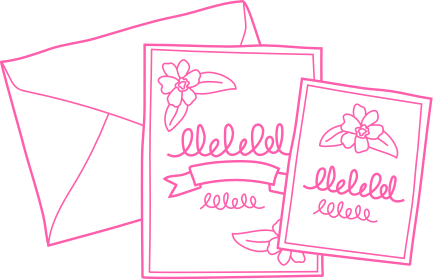
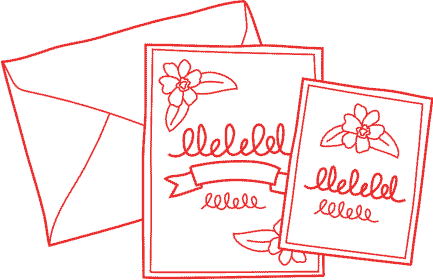
change colors

diff --git a/src/components/WorkGrid.js b/src/components/WorkGrid.js
@@ -24,7 +24,7 @@ class WorkGrid extends Component {
       <Container size='fullWidth' className='WorkGrid'>
         <Container size='maxWidth' className='innerContainer'>
           <h2 className='gridHeadline'>
-            We design custom paper goods for all the things in life worth celebrating!
+            We design custom paper goods for all the things in life worth celebrating.
           </h2>
 
           {/* Invitations */}
@@ -50,7 +50,7 @@ class WorkGrid extends Component {
                   Wedding Stationery
                 </h3>
                 <p>
-                  Your wedding stationery should be as  awesome as you are! That’s why we design  with your wants, needs, hopes, dreams, and budget in mind.
+                  Your wedding stationery should be as  awesome as you are. That’s why we design  with your wants, needs, hopes, dreams, and budget in mind.
                 </p>
                 <p>We’re happy to create invitation suites, printed envelopes, thank you cards, custom maps, signage, table numbers, and anything else your heart desires.
                 </p>

diff --git a/src/components/Navigation.js b/src/components/Navigation.js
@@ -23,7 +23,7 @@ class Navigation extends Component {
                   to='/'
                   className='navLink'
                   activeClassName='active'>
-                  what we do
+                  about
                 </IndexLink>
               </li>
               <li className='navListItem'>
@@ -31,8 +31,16 @@ class Navigation extends Component {
                   to='/how-we-do-it'
                   className='navLink'
                   activeClassName='active'>
-                  how we do it
+                  process
                 </Link>
+              </li>
+              <li className='navListItem'>
+                <a
+                  href='https://www.etsy.com/shop/niknakdsgn'
+                  target='_blank'
+                  className='navLink'>
+                  shop
+                </a>
               </li>
               <li className='navListItem'>
                 <Link

diff --git a/src/styles/_forms.scss b/src/styles/_forms.scss
@@ -14,7 +14,7 @@ form {
     font-size: px-to-rem(14);
     font-family: $fontSans;
     font-weight: 700;
-    color: $colorPrimary;
+    color: $colorSecondary;
     margin: 0 0 $spacePx/2 0;
     line-height: 1;
   }
@@ -25,7 +25,7 @@ form {
     display: block;
     -webkit-appearance: none;
     font-family: $fontSerif;
-    border: 2px solid rgba($colorPrimary, .22);
+    border: 2px solid rgba($colorSecondary, .22);
     transition: all .2s ease-in-out;
     border-radius: $borderRadius;
     font-size: px-to-rem(16);
@@ -35,7 +35,7 @@ form {
 
     &:focus {
       outline: none;
-      border: 2px solid rgba($colorPrimary, .55);
+      border: 2px solid rgba($colorSecondary, .55);
     }
 
     &::-webkit-input-placeholder { /* Chrome/Opera/Safari */

diff --git a/src/components/Navigation.scss b/src/components/Navigation.scss
@@ -30,7 +30,7 @@
 
   .navLogo {
     display: block;
-    fill: $colorBlack;
+    fill: $colorPrimary;
     width: 120px;
   }
 
@@ -52,6 +52,14 @@
 
     &:last-of-type {
       margin: 0;
+    }
+
+    @include respond-to(medium-screen) {
+      margin: 0 $spacePx*1.5 0 0;
+
+      &:last-of-type {
+        margin: 0;
+      }
     }
   }
 
@@ -87,7 +95,7 @@
 
     &.navButton {
       @include respond-to(medium-screen) {
-        @include smallButton($colorSecondary);
+        @include smallButton($colorPrimary);
         border: 3px solid rgba(0,0,0,0);
 
         &.active {
@@ -103,6 +111,6 @@
     position: absolute;
     width: 100%;
     height: 100%;
-    background: $colorSecondary;
+    background: $colorPrimary;
   }
 }

diff --git a/src/components/Footer.scss b/src/components/Footer.scss
@@ -2,7 +2,7 @@
 @import '../styles/variables.scss';
 
 .Footer {
-  background: $colorAccent;
+  background: $colorSecondAccent;
   padding: $spacePx*4 0;
   // magic number, height of footer for sticky footer
   height: 327px;
@@ -44,6 +44,7 @@
   }
 
   .navLink {
+    color: $colorPrimary;
     text-decoration: none;
     font-family: $fontSans;
     font-size: px-to-rem(14);
@@ -52,7 +53,7 @@
   .copyright {
     display: block;
     font-size: px-to-rem(12);
-    opacity: .33;
+    color: $colorSecondary;
     line-height: 1.75;
   }
 }

diff --git a/src/components/ProcessGrid.scss b/src/components/ProcessGrid.scss
@@ -36,7 +36,7 @@
       content: '';
       display: block;
       position: absolute;
-      background: rgba($colorPrimary, .22);
+      background: rgba($colorSecondary, .22);
       height: 2px;
       width: 25%;
       bottom: 0;
@@ -64,7 +64,7 @@
     }
 
     @include respond-to(large-screen) {
-      border-bottom: 2px solid rgba($colorPrimary, .22);
+      border-bottom: 2px solid rgba($colorSecondary, .22);
       padding-bottom: $spacePx*5;
       margin-bottom: $spacePx*5;
 

diff --git a/src/components/HomeHero.scss b/src/components/HomeHero.scss
@@ -3,7 +3,7 @@
 
 .HomeHero {
   background: $colorAccent;
-  color: $colorPrimary;
+  color: $colorBlack;
   position: relative;
 
   &:after {
@@ -17,7 +17,7 @@
     display: block;
     position: absolute;
     height: calc(100% + 80px);
-    opacity: .18;
+    opacity: .15;
     width: 100%;
   }
 
@@ -46,7 +46,7 @@
 
   .headlineLogo {
     bottom: -2px;
-    fill: $colorPrimary;
+    fill: $colorBlack;
     position: relative;
     width: 181px;
 

diff --git a/src/routes/ErrorPage.js b/src/routes/ErrorPage.js
@@ -3,10 +3,8 @@ import React, {Component} from 'react';
 // Components
 import Container from '../components/Container';
 import Footer from '../components/Footer';
-import FooterCta from '../components/FooterCta';
 import BlankHero from '../components/BlankHero';
-import WorkGrid from '../components/WorkGrid';
-import {Link} from 'react-router';
+ import {Link} from 'react-router';
 
 // Styles
 import './ErrorPage.scss';

diff --git a/src/components/ContactForm.scss b/src/components/ContactForm.scss
@@ -15,13 +15,13 @@
 
     &.formFailure {
       .contactHeadline {
-        color: $colorError;
+        color: $colorBlack;
       }
     }
 
     &.formSuccess {
       .contactHeadline {
-        color: $colorSecondary;
+        color: $colorBlack;
       }
     }
 
@@ -54,7 +54,7 @@
   }
 
   .submitButton {
-    @include button($colorSecondary);
+    @include button($colorPrimary);
   }
 
   .resetButton {

diff --git a/src/styles/_variables.scss b/src/styles/_variables.scss
@@ -1,10 +1,11 @@
 // Colors
-$colorBlack: #14203A;
-$colorPrimary: #FF5EAC;
-$colorSecondary: #3CCA9C;
-$colorAccent: #EAF893;
-$colorSecondAccent: #FFE69F;
-$colorError: #FF9925;
+$colorBlack: #000;
+$colorWhite: #fff;
+$colorPrimary: #EC2E2E;
+$colorSecondary: #84807A;
+$colorAccent: #F7F3EE;
+$colorSecondAccent: #ECE8E3;
+$colorError: #EC2E2E;
 
 // Fonts
 $fontSans: 'Montserrat', sans-serif;

diff --git a/src/styles/_typography.scss b/src/styles/_typography.scss
@@ -51,7 +51,7 @@ h4 {
 }
 
 p {
-  font-size: px-to-rem(18);
+  font-size: px-to-rem(19);
   font-family: $fontSerif;
   line-height: 1.5;
   margin: 0 0 $spacePx 0;
@@ -62,7 +62,7 @@ p {
 }
 
 ul {
-  font-size: px-to-rem(18);
+  font-size: px-to-rem(19);
   font-family: $fontSerif;
   line-height: 1.5;
   margin: 0 0 $spacePx 0;

diff --git a/src/components/FooterCta.scss b/src/components/FooterCta.scss
@@ -2,7 +2,7 @@
 @import '../styles/variables.scss';
 
 .FooterCta {
-  background: $colorSecondAccent;
+  background: $colorAccent;
   position: relative;
 
   &:after {
@@ -16,7 +16,7 @@
     display: block;
     position: absolute;
     height: 100%;
-    opacity: .18;
+    opacity: .15;
     width: 100%;
   }
 
